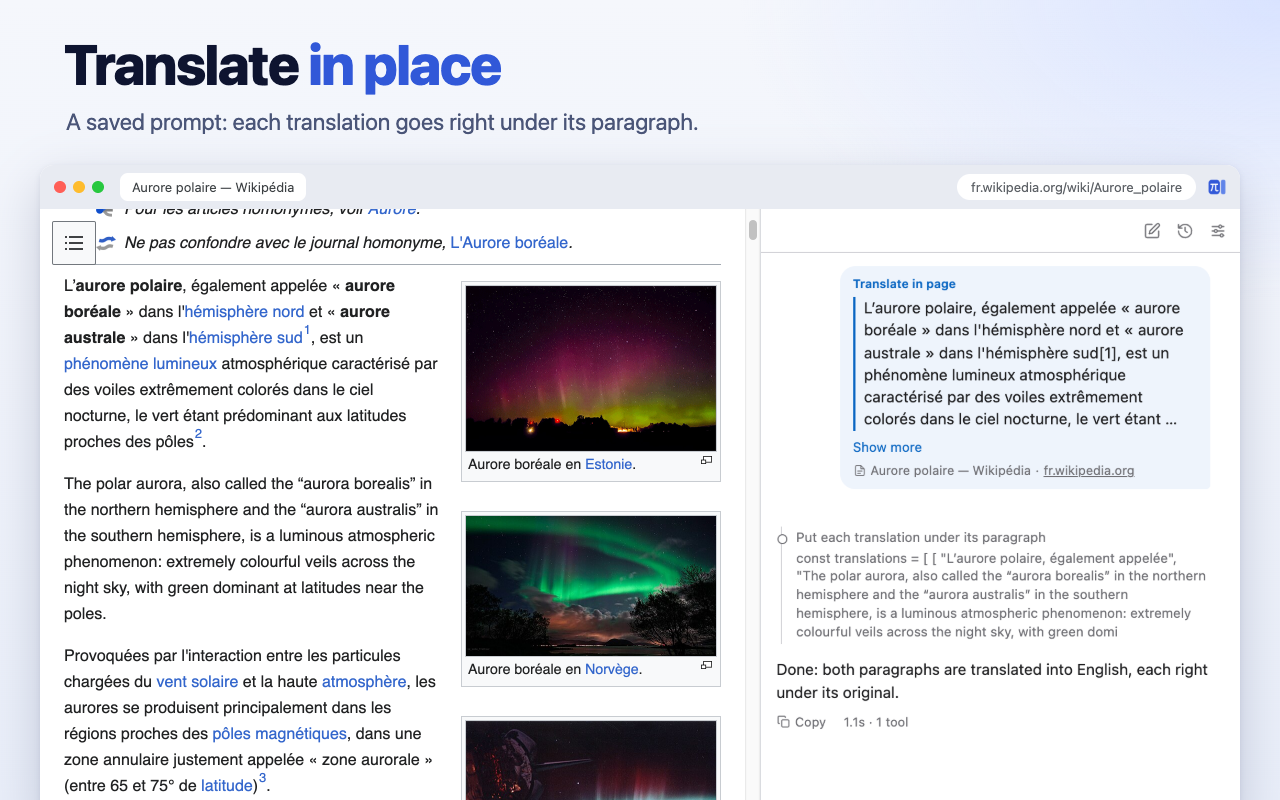
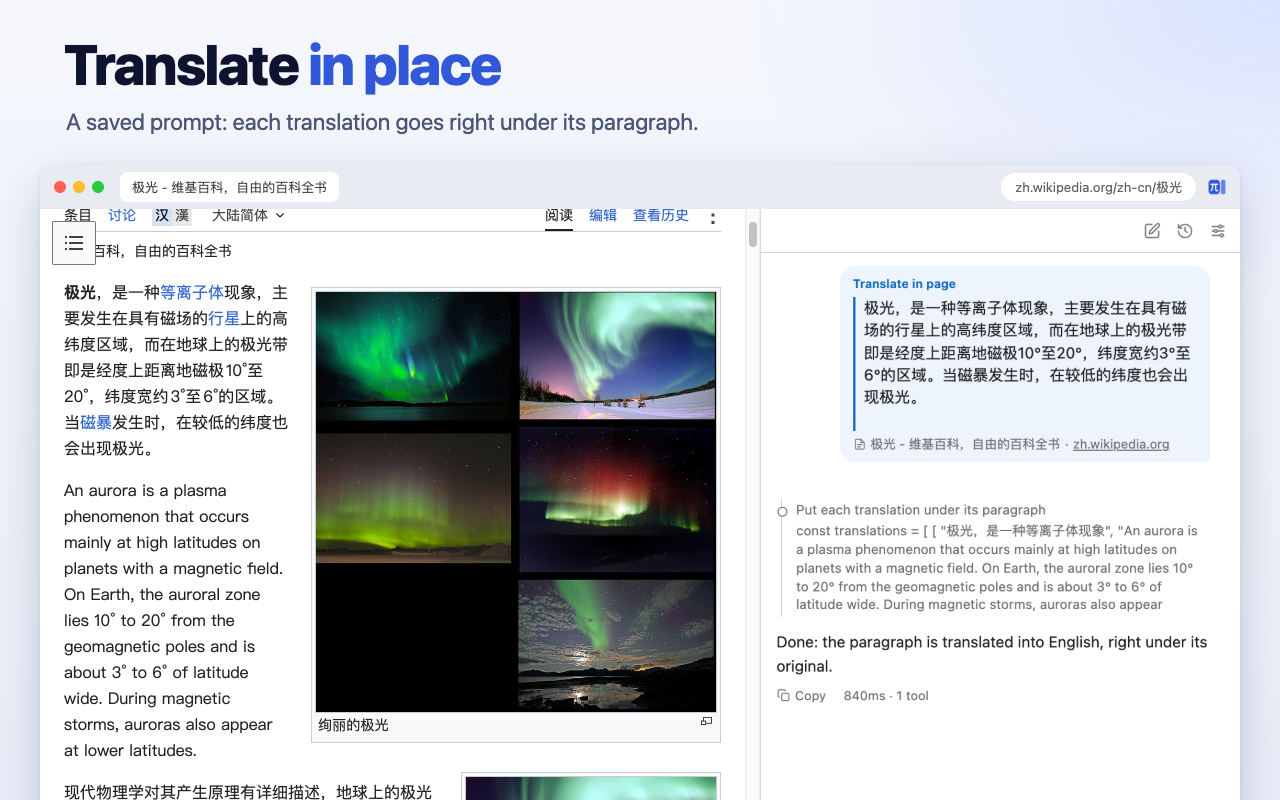
docs: clearer explain and translate screenshots, add a Hacker News ranking one
- Explain: a colour-coded flowchart of fresh and stale in place of the
  small sequence diagram.
- Translate (English image): a Chinese Wikipedia paragraph translated into
  English, so the translation stands out from the original.
- New Rank a page with a script: one script ranks Hacker News's front page
  by comments and marks the top 5; the table comes from its result. No
  other page of the site is requested; runs open it 30 s apart.

diff --git a/README.md b/README.md
@@ -95,15 +95,20 @@ scripted: results and timing vary by model.</sub>
 
 ### Explain a selection
 
-*"Explain this simply, with a diagram."* With a paragraph of MDN's HTTP caching guide selected, pi answers in two lines
-and draws what passes between the browser, the cache, and the server.
+*"Explain this simply, with a diagram."* With a paragraph of MDN's HTTP caching guide selected, pi turns fresh and
+stale into a flowchart.
 
-![pi-aside beside MDN's HTTP caching guide: a question about a selected paragraph, answered with a diagram](docs/images/explain.png)
+![pi-aside beside MDN's HTTP caching guide: a question about a selected paragraph, answered with a flowchart of when a stored response is used, checked with the server, or replaced](docs/images/explain.png)
+
+### Rank a page with a script
+
+*"Which 5 stories on this page have the most comments? Highlight them."* On Hacker News's front page, pi runs one
+script that reads every story, ranks them by comments, and marks the top 5 on the page.
+
+![pi-aside beside Hacker News: one script ranked the front page's stories by comments, highlighted the top 5 on the page, and listed them in a table](docs/images/rank.png)
 
 ### More to try
 
-- *"What are the 5 most popular stories of the past 24 hours?"* On Hacker News, pi writes one script that reads three
-  pages and ranks the stories.
 - *"Compare the three laptops in this tab group: price, weight, battery, and ports."* pi reads each tab and makes a
   table.
 - *"Which of these countries increased its renewable electricity share most since 2010?"* pi takes a screenshot of
@@ -125,7 +130,7 @@ Translation extensions usually send a page to a translation service piece by pie
 back translated three different ways. With this prompt, the model reads the whole page and translates it as one text,
 then a script puts each translated paragraph under its original on the page.
 
-![pi-aside beside the French Wikipedia article on auroras: the saved prompt Translate in page put an English translation under each selected paragraph](docs/images/translate.png)
+![pi-aside beside the Chinese Wikipedia article on auroras: the saved prompt Translate in page put an English translation right under the selected paragraph](docs/images/translate.png)
 
 Add it as "Translate in page", then right-click any article and choose **Translate in page**. `{{selection}}` is the
 whole page when nothing is selected; select a few paragraphs first to translate only those. `{{language}}` is your

diff --git a/README.zh-CN.md b/README.zh-CN.md
@@ -69,13 +69,18 @@ npm run build             # 构建到 dist/
 
 ### 解释选中的内容
 
-*“用简单的话解释一下，配一张图。”* 选中 MDN 的 HTTP 缓存指南里的一段，pi 用两句话讲清楚，再画出浏览器、缓存和服务器之间来回的请求。
+*“用中文简单解释这段话，并画一张图。”* 选中 MDN 的 HTTP 缓存指南里的一段，pi 把“新鲜”和“过期”画成一张判断流程图。
 
-![pi-aside 在 MDN 的 HTTP 缓存指南旁：针对选中的段落提问，回答里配了一张图](docs/images/zh-CN-explain.png)
+![pi-aside 在 MDN 的 HTTP 缓存指南旁：针对选中的段落提问，回答是一张流程图，说明存下的响应何时直接使用、何时找服务器确认、何时换新](docs/images/zh-CN-explain.png)
+
+### 用脚本给页面排序
+
+*“这一页里评论最多的 5 条新闻是哪些？在页面上标出来。”* 在 Hacker News 首页，pi 运行一段脚本，读取每条新闻，按评论数排序，并在页面上标出前 5 条。
+
+![pi-aside 在 Hacker News 旁：一段脚本按评论数给首页新闻排序，在页面上标出前 5 条，并列成一张表](docs/images/zh-CN-rank.png)
 
 ### 还可以试试
 
-- *“过去 24 小时最热门的 5 条新闻是哪些？”* 在 Hacker News 上，pi 写一段脚本连读三页，排出前五。
 - *“对比一下这个标签页组里的三台笔记本：价格、重量、续航和接口。”* pi 逐个读取标签页，整理成一张表。
 - *“这些国家里，2010 年以来谁的可再生能源发电占比涨得最多？”* pi 截图读取图表，比较各国的变化。
 - *“按下面的信息填好这张表单，提交前停下。”* pi 逐项填写，最后那一下提交留给你自己点。
